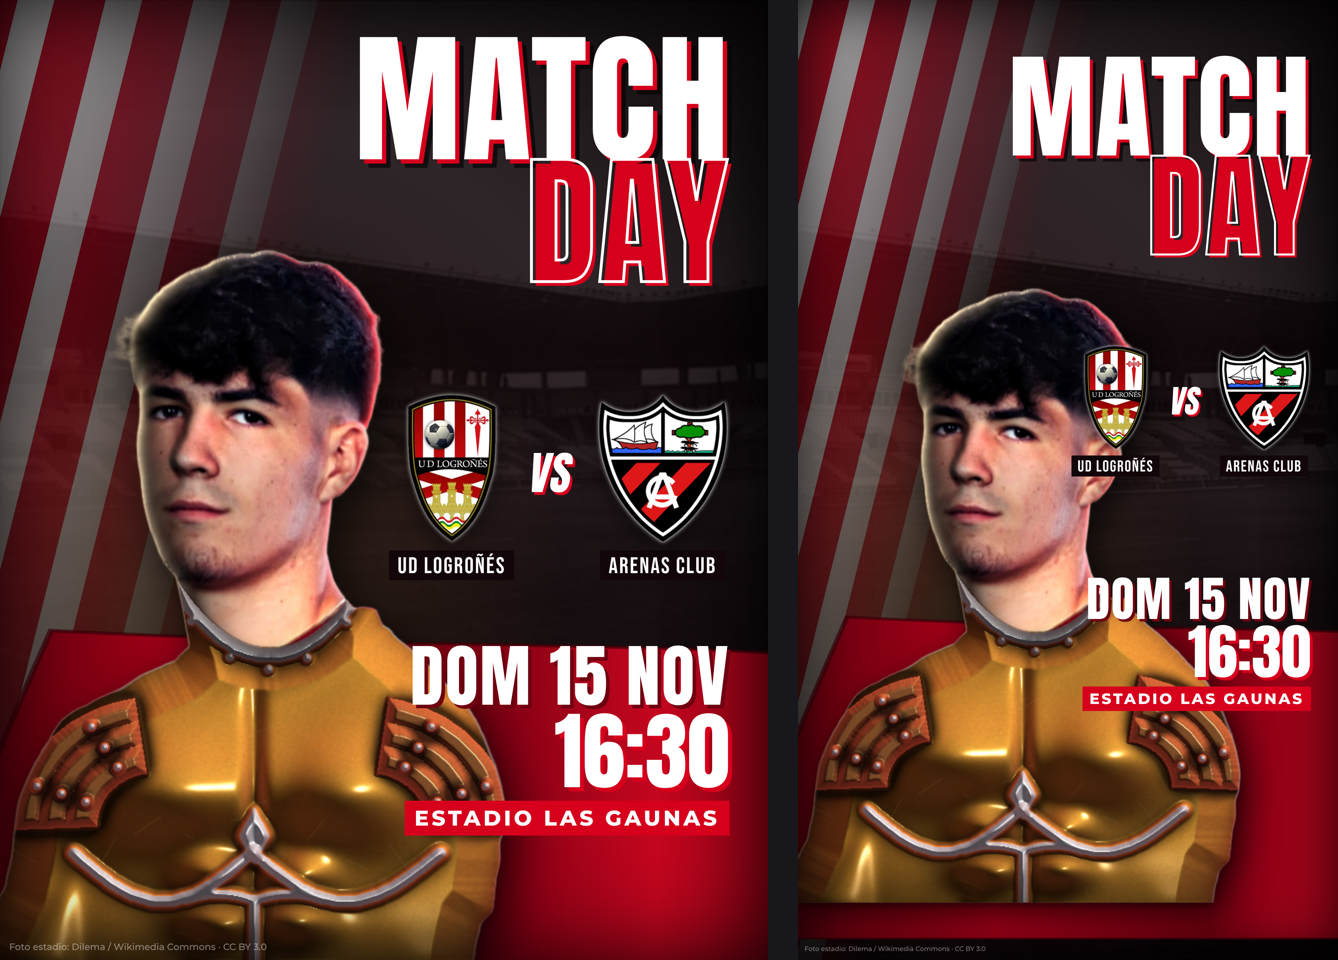
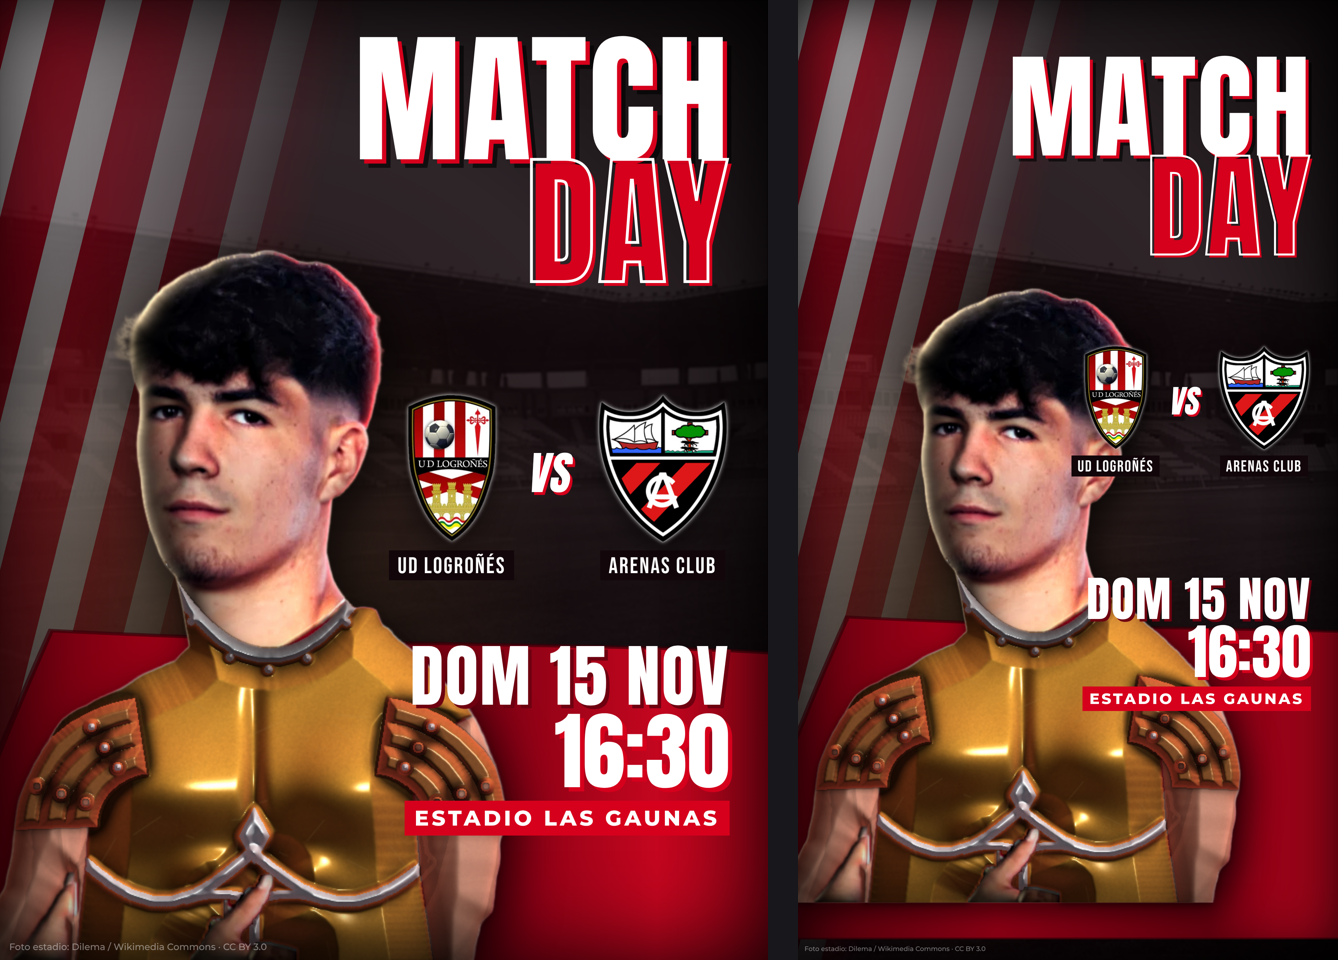
Logroñés vs Arenas: brazos y manos visibles bajo la armadura
Claude-Session: https://claude.ai/code/session_01Q54DXVH7GopsR3mpjPBNRA

diff --git a/miniaturero/salida/2026-11-15_logrones-arenas/proyecto/poster.html b/miniaturero/salida/2026-11-15_logrones-arenas/proyecto/poster.html
@@ -116,6 +116,7 @@
       <use href="#tela-forma" fill="none" stroke="#3a0008" stroke-width="4" stroke-opacity=".7"/>
     </svg>
     <img class="jugador" src="img/anai_iluminado.png" alt="Anai Morales">
+    <img class="armadura" src="img/brazos.png" alt="">
     <img class="armadura" src="img/coraza.png" alt="">
   </div>
 

diff --git a/miniaturero/salida/2026-11-15_logrones-arenas/proyecto/hacer_brazos.py b/miniaturero/salida/2026-11-15_logrones-arenas/proyecto/hacer_brazos.py
@@ -1,0 +1,65 @@
+"""Brazos visibles: las manos reales quedan fuera de la armadura y, bajo las hombreras,
+los brazos se muestran desnudos (piel del tono de la cara, volumen de cilindro y la misma luz)."""
+import cv2
+import numpy as np
+from PIL import Image
+
+D = 'salida/2026-11-15_logrones-arenas/proyecto/img/'
+foto = np.array(Image.open(D + 'anai.png').convert('RGBA'))
+ilu = np.array(Image.open(D + 'anai_iluminado.png').convert('RGBA'))
+h, w = foto.shape[:2]
+a = (foto[..., 3] > 128).astype(np.uint8)
+
+# 1) manos (piel real de la foto, abajo)
+hsv = cv2.cvtColor(foto[..., :3], cv2.COLOR_RGB2HSV)
+r, g, b = [foto[..., i].astype(int) for i in range(3)]
+manos = ((hsv[..., 0] < 20) & (hsv[..., 1] > 45) & (hsv[..., 1] < 150) & (hsv[..., 2] > 110)
+         & (r > g) & (g > b) & (r - g > 25) & (r - g < 85) & (g > 80)).astype(np.uint8)
+manos = cv2.morphologyEx(manos, cv2.MORPH_OPEN, np.ones((3, 3), np.uint8))
+n, lab, st, _ = cv2.connectedComponentsWithStats(manos)
+manos = np.isin(lab, [i for i in range(1, n) if st[i, 4] > 300]).astype(np.uint8)
+manos[:640] = 0
+manos[600:712, 225:272] = 0                                        # parte baja del escudo de la camiseta
+manos = cv2.morphologyEx(manos, cv2.MORPH_CLOSE, np.ones((9, 9), np.uint8))
+manos = cv2.dilate(manos, np.ones((5, 5), np.uint8)) & a
+
+# 2) brazos (mangas de la camiseta, a los lados del torso)
+brazos = np.zeros((h, w), np.uint8)
+cv2.fillPoly(brazos, [np.array([[0, 540], [55, 505], [128, 540], [124, 640], [112, 754], [0, 754]], np.int32)], 1)
+cv2.fillPoly(brazos, [np.array([[468, 525], [540, 492], [570, 520], [570, 754], [492, 754], [478, 660]], np.int32)], 1)
+brazos = brazos & a & (1 - manos)
+
+Image.fromarray(((brazos | manos) * 255).astype(np.uint8)).save(D + '_mascara_brazos.png')
+
+# 3) piel con volumen: altura = forma redondeada dentro de cada brazo
+dist = cv2.distanceTransform(brazos, cv2.DIST_L2, 5)
+z = np.sqrt(np.clip(dist, 0, None)).astype(np.float32)
+z = cv2.GaussianBlur(z, (0, 0), 3)
+gx = cv2.Sobel(z, cv2.CV_32F, 1, 0, ksize=5)
+gy = cv2.Sobel(z, cv2.CV_32F, 0, 1, ksize=5)
+k = 1.2 / (np.median(np.hypot(gx, gy)[brazos > 0]) + 1e-6)
+N = np.dstack([-gx * k, -gy * k, np.ones_like(gx)])
+N /= np.linalg.norm(N, axis=2, keepdims=True)
+L = np.array([.5, -.55, .67], np.float32); L /= np.linalg.norm(L)
+dif = np.clip(N @ L, 0, 1)
+Hv = (L + [0, 0, 1]); Hv /= np.linalg.norm(Hv)
+spec = np.clip(N @ Hv, 0, 1) ** 25 * .12
+fres = (1 - np.clip(N[..., 2], 0, 1)) ** 2
+
+piel_cla = np.array([.86, .62, .52]); piel_osc = np.array([.32, .17, .13])   # a partir del tono de la mejilla
+col = piel_osc + (piel_cla - piel_osc) * (dif[..., None] ** .9)
+col += spec[..., None]
+col += fres[..., None] * np.array([.9, .2, .15]) * .35                       # contraluz rojo, como el resto
+# un poco de la textura de la foto (pliegues), sin las rayas de color
+lum = cv2.cvtColor(ilu[..., :3], cv2.COLOR_RGB2GRAY).astype(np.float32) / 255
+detalle = lum - cv2.GaussianBlur(lum, (0, 0), 4)
+col *= (1 + np.clip(detalle, -.08, .08))[..., None]
+rng = np.random.default_rng(2)
+col *= (.97 + .06 * cv2.GaussianBlur(rng.random((h, w)).astype(np.float32), (0, 0), .7))[..., None]
+yy = np.mgrid[0:h, 0:w][0].astype(np.float32)
+col *= (1 - np.clip((yy - 680) / 74, 0, 1) * .4)[..., None]                 # misma caída a sombra abajo
+
+alfa = cv2.GaussianBlur(brazos.astype(np.float32), (0, 0), 1.2) * (foto[..., 3] / 255)
+out = (np.clip(col, 0, 1) * 255).astype(np.uint8)
+Image.fromarray(np.dstack([out, (alfa * 255).astype(np.uint8)])).save(D + 'brazos.png')
+print('ok', int(brazos.sum()), int(manos.sum()))

diff --git a/miniaturero/salida/2026-11-15_logrones-arenas/proyecto/hacer_coraza.py b/miniaturero/salida/2026-11-15_logrones-arenas/proyecto/hacer_coraza.py
@@ -22,7 +22,8 @@ def escote(x):
 
 
 cuello = escote(xx)
-cuerpo = ((yy > cuello) & (a > .5)).astype(np.uint8)
+libres = np.array(Image.open(D + '_mascara_brazos.png')) > 0      # brazos y manos: sin armadura
+cuerpo = ((yy > cuello) & (a > .5) & ~libres).astype(np.uint8)
 
 # ---------- materiales: 0 nada, 1 oro (coraza), 2 plata (ribetes/remaches), 3 bronce (hombreras)
 mat = np.zeros((h, w), np.uint8)
@@ -106,6 +107,7 @@ for xr in np.linspace(235, 400, 5):
         z += rem
         mat[rem > .25] = 2
 
+mat[libres & (mat != 3)] = 0                                      # las hombreras sí pueden ir sobre el brazo
 cubre = (mat > 0)
 alfa = cv2.GaussianBlur(cubre.astype(np.float32), (0, 0), .9) * a
 

diff --git a/miniaturero/salida/2026-11-15_logrones-arenas/notas.md b/miniaturero/salida/2026-11-15_logrones-arenas/notas.md
@@ -9,6 +9,7 @@
 - **Foto del estadio (11/11):** aportada por el usuario (`entrada/las_gaunas.webp`). Es la misma vista que la foto de Wikimedia Commons de "Dilema" (CC BY 3.0), así que se mantiene el crédito.
 - **Armadura (11/11):** la referencia del usuario (`entrada/armadura_referencia.webp`) es una vista previa de banco de imágenes (Dreamstime) con marca de agua: **no se usa** (no está licenciada y no se quitan marcas de agua). En su lugar, coraza **original** hecha con código: `proyecto/hacer_coraza.py` genera el metal dorado siguiendo la silueta y el relieve del torso (Depth Anything + pectorales/abdominales esculpidos, mismo foco que el jugador, brillos, contraluz rojo) y `img/armadura.svg` añade ribetes plateados, hombreras de cuero y correa con hebillas. El escudo romano pasa a la esquina inferior izquierda para que se vea la coraza.
 - **Cambios (11/11, petición del usuario):** fuera el escudo romano y el texto "A LA ARENA". Armadura rehecha para que sea realista: `proyecto/hacer_coraza.py` crea un mapa de alturas sobre el torso (coraza musculada, ribetes plateados en relieve, escote en U alrededor del cuello, hombreras de 3 placas de bronce superpuestas, remaches) y lo sombrea como metal con la misma luz que la foto: brillos, reflejo del entorno, oclusión en cavidades, desgaste y arañazos suaves, sombra de la barbilla y contraluz rojo. Se elimina la versión dibujada en SVG.
+- **Brazos (11/11):** `proyecto/hacer_brazos.py`. Las manos reales de la foto (brazos cruzados) quedan fuera de la armadura y se ven delante. Bajo las hombreras, los brazos van desnudos: como en la foto los tapan las mangas, se pinta piel del tono de la cara con volumen de brazo y la misma luz (`img/brazos.png`). La foto original corta los brazos, así que solo se ve la parte de arriba y las manos.
 - **Fuentes:** Anton, Bebas Neue y Montserrat (SIL OFL).
 - **Revisión:** 1) capa casi invisible, broches flotando, el escudo romano chocaba con la fecha → fecha a la columna derecha, broches fuera, capa que ondea hacia la derecha; 2) capa plana → pliegues con luces y sombras; 3) en 9:16 el escudo romano rozaba el "16:30" → recolocado.
 
